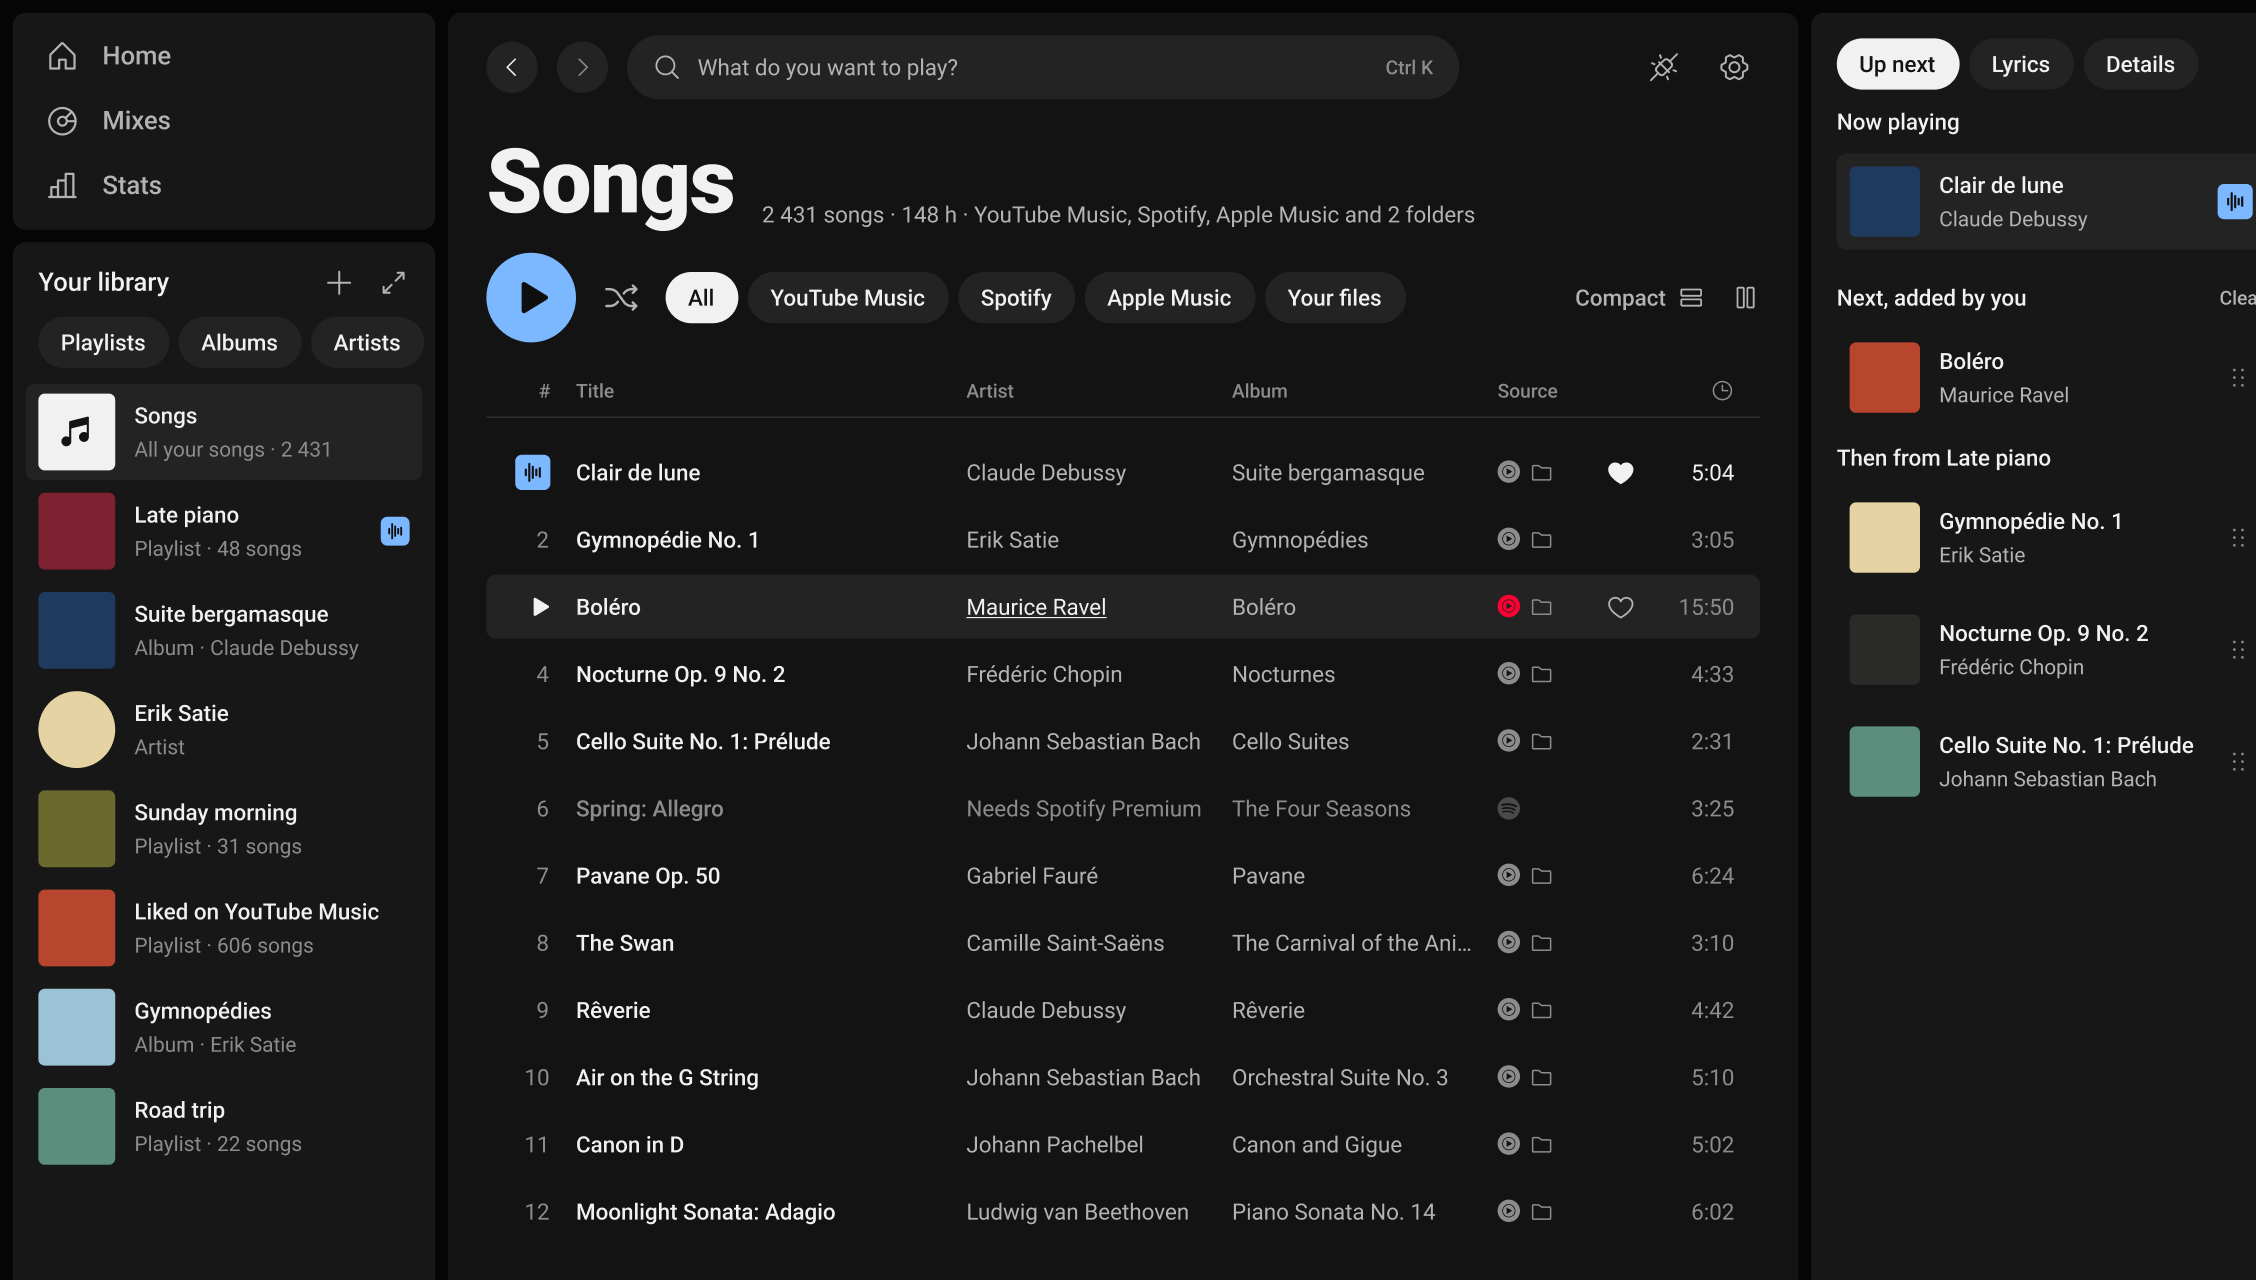
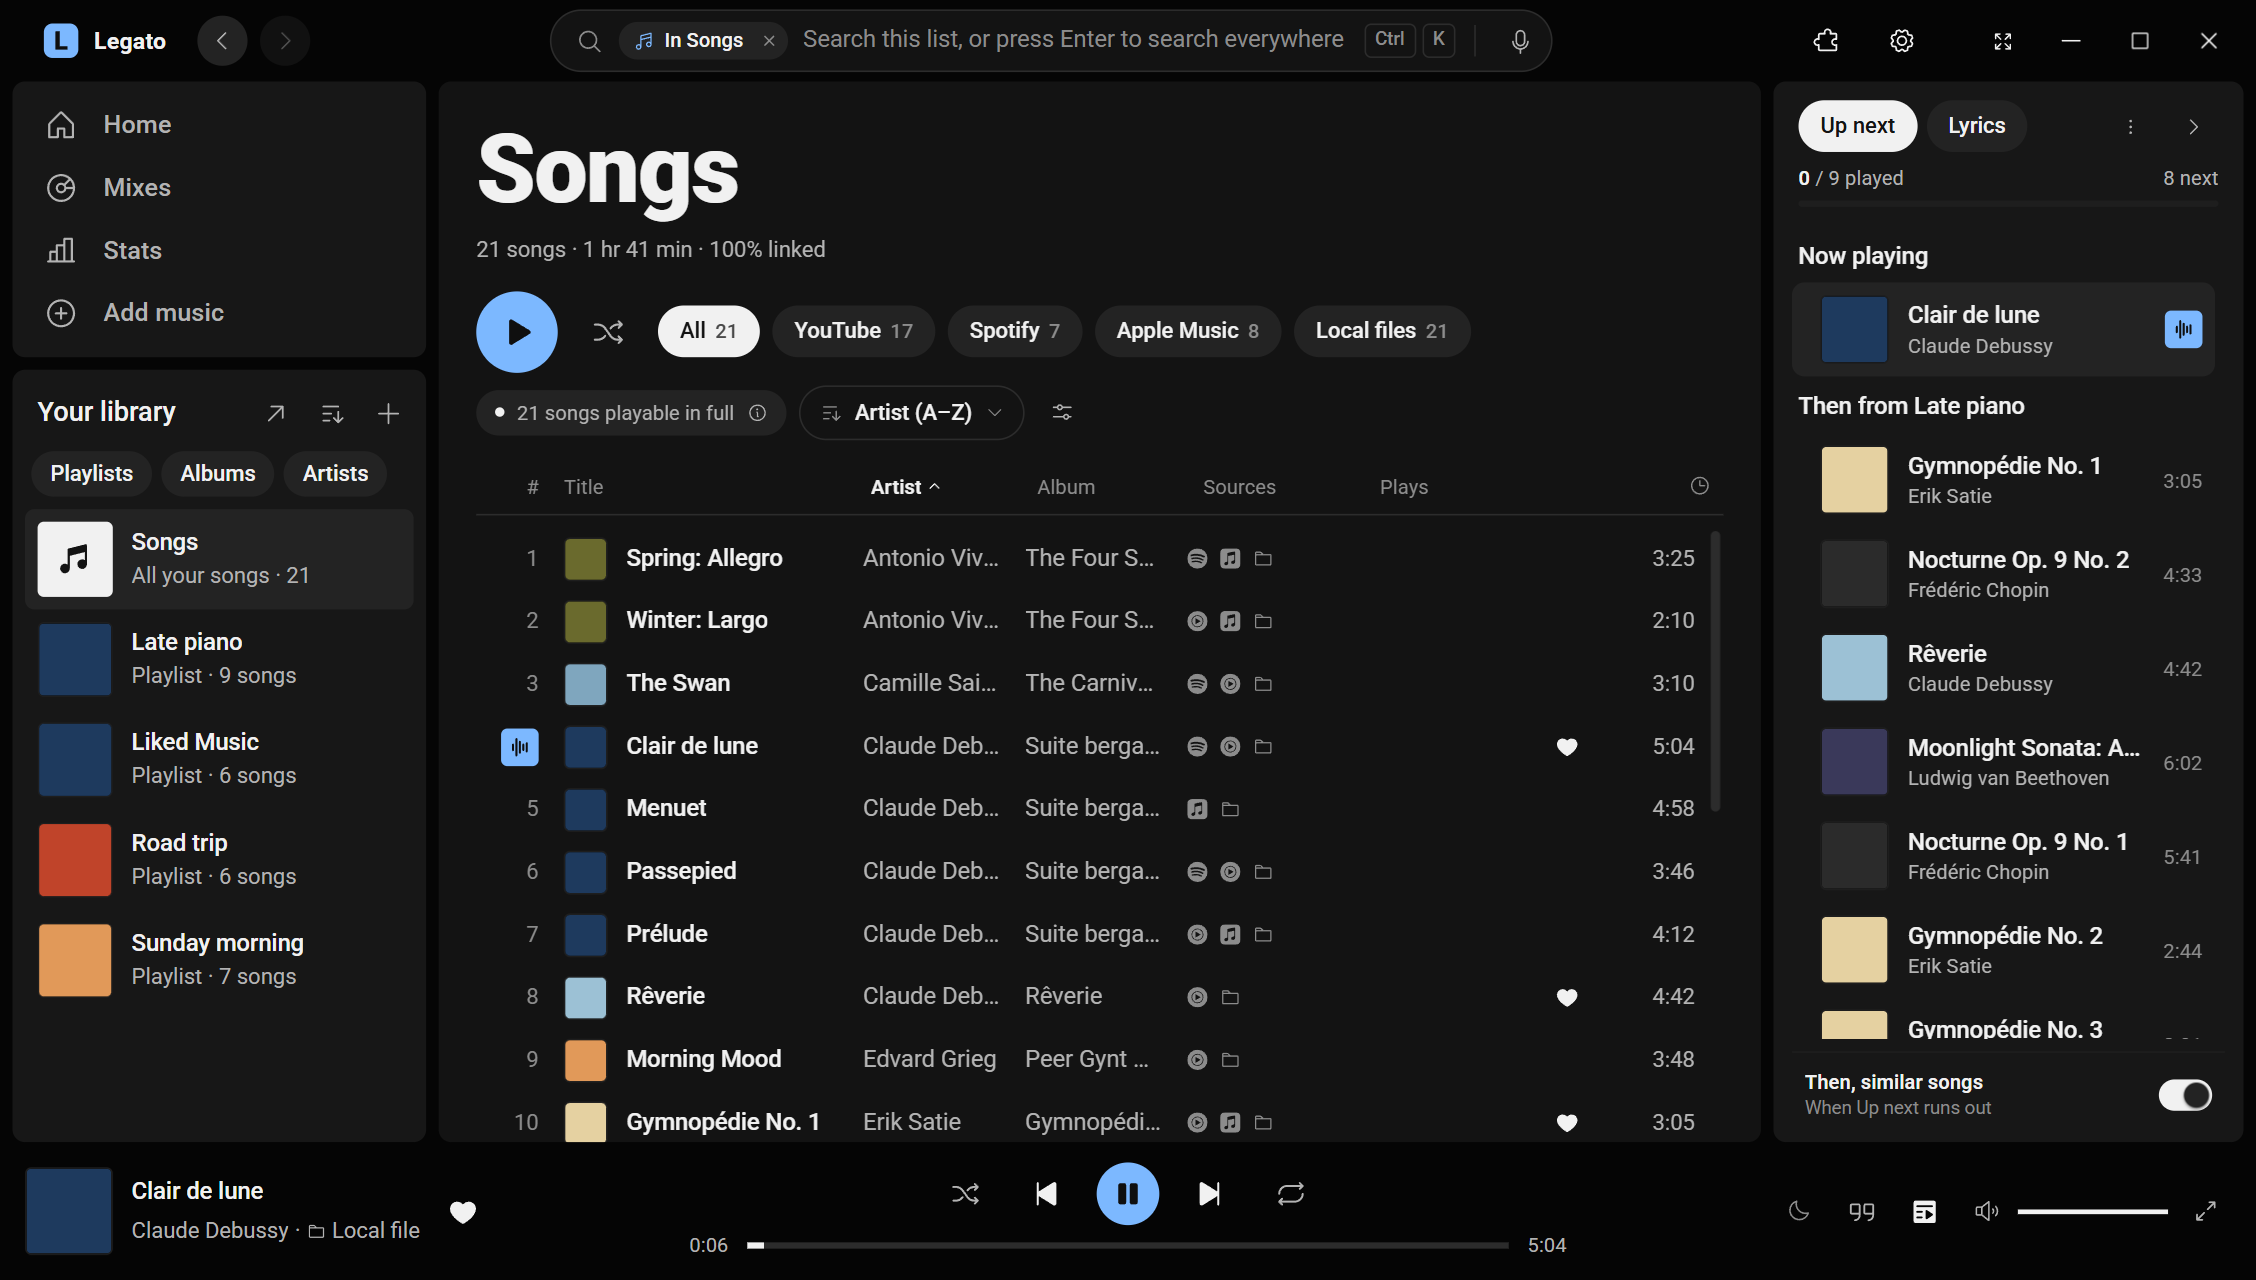
feat(site): real screenshots of the app instead of the mockup
The Songs page in light and dark, taken from the app itself with a demo
library (silent public-domain files with flat covers, never real data):
the website's hero and the README show what Legato looks like now.

diff --git a/site/components/Hero.tsx b/site/components/Hero.tsx
@@ -65,7 +65,7 @@ export function Hero() {
   )
 }
 
-/** The Songs page, bleeding off the right edge like the mockup; it drifts a little against the scroll. */
+/** The app's Songs page (demo library: silent public-domain files, never real data), bleeding off the right edge; it drifts a little against the scroll. */
 export function Shot() {
   const ref = useRef<HTMLDivElement>(null)
   const { scrollYProgress } = useScroll({ target: ref, offset: ['start end', 'end start'] })

diff --git a/docs/notes/plan-v2.md b/docs/notes/plan-v2.md
@@ -17,6 +17,9 @@ Version 1.0 (user's choice 2026-10-29: the first releases were 0.1). A new sessi
 - [x] Your library ↗ (open it full width, design.md) and a sidebar resized by its edge; the right panel's player only
       while something plays (user's ask 2026-10-30).
 - [x] The player bar's "artist · from your file" line (the Source icon setting moved there).
+- [x] Add music page rethought (one search, a card per way in); website and README shots taken from the real app
+      with a demo library (silent public-domain MP3s with flat covers, scanned by a second dev app under its own
+      identifier, other services linked with fake ids through `music_core::Library`).
 - [ ] Check in the app: "No sound could be taken" gone from the second YouTube video on (fix 51946d5).
 - [x] Website on GitHub Pages (user's choice 2026-10-29): Pages on, source GitHub Actions; `pages.yml` deploys `site/`
       from `master` at https://clovis500c.github.io/music-app/ (first deploy with the merge).
